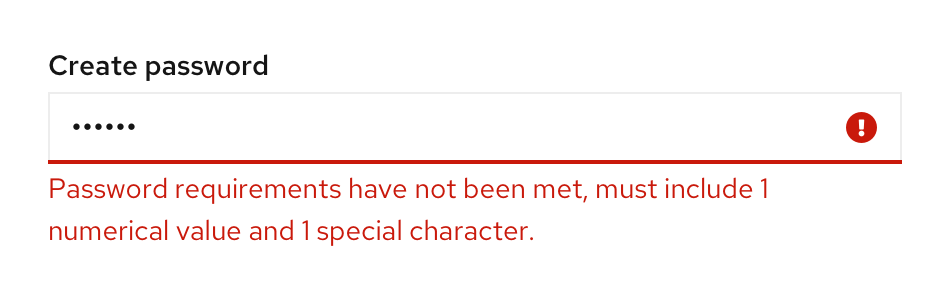
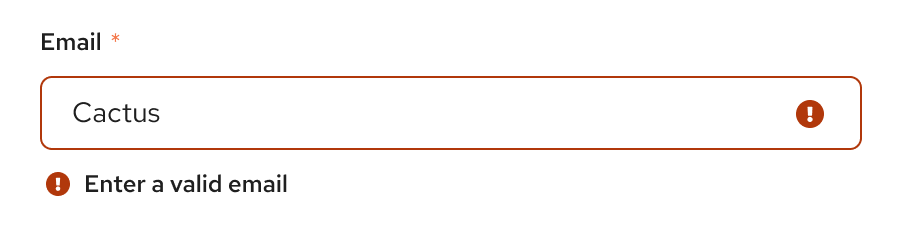
chore(helper text): remove status text color

Changed region(s): [[0.031, 0.3097, 0.9602, 0.7124], [0.031, 0.7434, 0.5575, 0.8673], [0.031, 0.1239, 0.3097, 0.2788]]

diff --git a/packages/documentation-site/patternfly-docs/content/design-guidelines/components/helper-text/helper-text.md b/packages/documentation-site/patternfly-docs/content/design-guidelines/components/helper-text/helper-text.md
@@ -4,24 +4,22 @@ section: components
 ---
 
 ## Usage
-Helper text is most commonly used in conjuction with form elements to provide additional hints and information for the user. It can also be used to explain why certain information is being requested, how to use a specific input or to suggest helpful hints. Helper text should always be visible and appear as a subheading, unlike [popovers](https://v4-archive.patternfly.org/v4/components/popover/design-guidelines/) which display content in a new window.
+Helper text is most commonly used in conjunction with form elements to provide additional hints and information for the user. It can also be used to explain why certain information is being requested, how to use a specific input or to suggest helpful hints. Helper text should always be visible and appear as a subheading, unlike [popovers](https://www.patternfly.org/components/popover/design-guidelines/) which display content in a new window.
 <br/>
 ### When to use helper text
 * Use helper text to provide imperative information regarding an input, such as character limits, password expectations, and more.  
-* Use colored helper text to convey the status of a user's input. For example, if a user has met the character requirements, display helper text in green font to show success. Similarly, if a user has not met a password requirement, display the helper text in red to show failure/error. <br/>
-<img src="./img/errorhelptext.png" alt="image showing error help text" width="452"/>
-
-    <img src="./img/correctcolors.png" alt="image showing colored help text" width="226"/>
+* Use status icons with helper text to convey the status of a user's input. For example, if a user has met the character requirements, display the success icon with helper text to show success. Similarly, if a user has not met a password requirement, display the error icon with helper text failure/error. <br/>
+<img src="./img/errorhelptext.png" alt="image showing error help text" width="352"/>
 
 ### When not to use helper text
 * Do not use helper text to explain what a form field is or to provide additional form context. Instead, use a popover to convey any additional, non-imperative information to a user. Popover content is displayed in a new window after the user clicks or toggles over the popover icon. Its content consists of longer descriptions, formatted text, and complete sentences. 
 <br/>
-<img src="./img/popoverexample.png" alt="image showing popover" width="772"/>
+<img src="./img/popoverexample.png" alt="image showing popover" width="352"/>
 * Do not use helper text to provide formatting examples within a text box. Instead, use placeholder text to temporarily showcase what content should appear in a field before the user inputs information. 
-<img src="./img/placeholdercopy.png" alt="image showing popover" width="361"/>
+<img src="./img/placeholdercopy.png" alt="image showing popover" width="352"/>
 <br/>
 
-For information regarding other forms of on-screen help, see [popovers](https://v4-archive.patternfly.org/v4/components/popover/design-guidelines/) and [tooltips](https://v4-archive.patternfly.org/v4/components/tooltip/design-guidelines).
+For information regarding other forms of on-screen help, see [popovers](https://v4-archive.patternfly.org/v4/components/popover/design-guidelines/) and [tooltips](https://www.patternfly.org/components/tooltip/design-guidelines).
 
 
 ### Example
